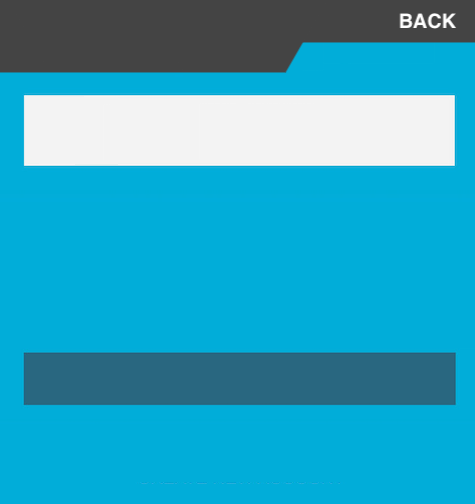
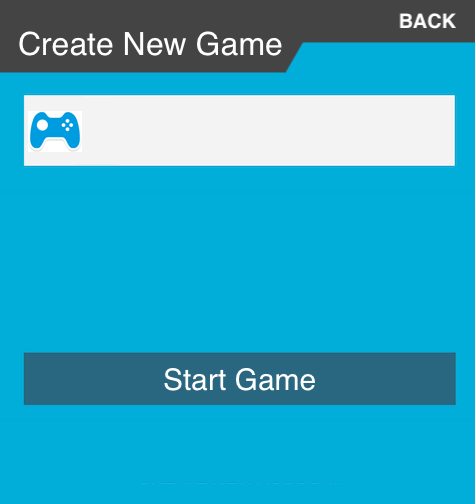
finish create new game menu
needs to connect actual functionality

diff --git a/game_view.py b/game_view.py
@@ -530,15 +530,68 @@ def join_game_view():
     return
 
 def create_new_game_view():
-    print("it is working create_new_game_view")
+    option_menu.disable()
+    option_menu.reset(1)
+
+    ruleset_name = pygame_textinput.TextInput()
+    login_view = pygame.image.load("images/menu/create-new-game.png")
+    surface.fill(COLOR_BACKGROUND)
+    error_surface = False
+    
+    while True:
+        # Clock tick
+        clock.tick(60)
+
+        # Application events
+        playevents = pygame.event.get()
+
+        for e in playevents:
+            if e.type == QUIT:
+                exit()
+            elif e.type == KEYDOWN:
+                if e.key == K_ESCAPE and main_menu.is_disabled():
+                    option_menu.enable()
+                    option_menu.mainloop(playevents)
+                    return
+            elif e.type == MOUSEBUTTONDOWN:
+                mouse_pos = pygame.mouse.get_pos()
+                print(mouse_pos)
+                if mouse_pos[0] in range(186,612) and mouse_pos[1] in range(400,450):
+                    # recover ruleset_name
+                    if len(ruleset_name.get_text()) < 1: 
+                        break
+                    # if not ruleset_name.get_text().isdigit(): # CHECK IF EXISTS
+                    #     error_surface = True
+                    #     break
+                    create_room(ruleset_name = ruleset_name.get_text())
+                    return
+                elif mouse_pos[0] in range(562,617) and mouse_pos[1] in range(62,77):
+                    option_menu.enable()
+                    option_menu.mainloop(playevents)
+                    return
+        
+        ruleset_name.update(playevents)   
+            
+        # blit information to the menu based on user input from above
+        surface.blit(login_view, ((WINDOW_SIZE[0] - login_view.get_size()[0]) / 2, (WINDOW_SIZE[1] - login_view.get_size()[1]) / 2))
+        if error_surface:
+            ptext.draw("Ruleset name does not exist", (200, 300), sysfontname="arial", color=COLOR_RED, fontsize=35, width = 300)
+            error_surface = False
+        if len(ruleset_name.get_text()) >= 1:
+            surface.blit(ruleset_name.get_surface(), (250,170))  
+        else:
+            surface.blit(MY_FONT.render('Ruleset', 1, COLOR_BLACK), (250,160))  
+
+        pygame.display.flip()
+
     return
 
 def ruleset_view():
-    print("it is working ruleset_view")
+    print("Ruleset View - TODO FOR SHALLY")
     return
 
 def previous_games_view():
-    print("it is working previous_games_view")
+    print("Previous Games View - TODO FOR SHALLY")
     return
 
 # -----------------------------------------------------------------------------
@@ -568,6 +621,10 @@ def recover_account_credentials(username, code, password):
 
 def enter_room(room_number):
     print(room_number)
+    return
+
+def create_room(ruleset_name):
+    print(ruleset_name)
     return
 
 # -----------------------------------------------------------------------------
